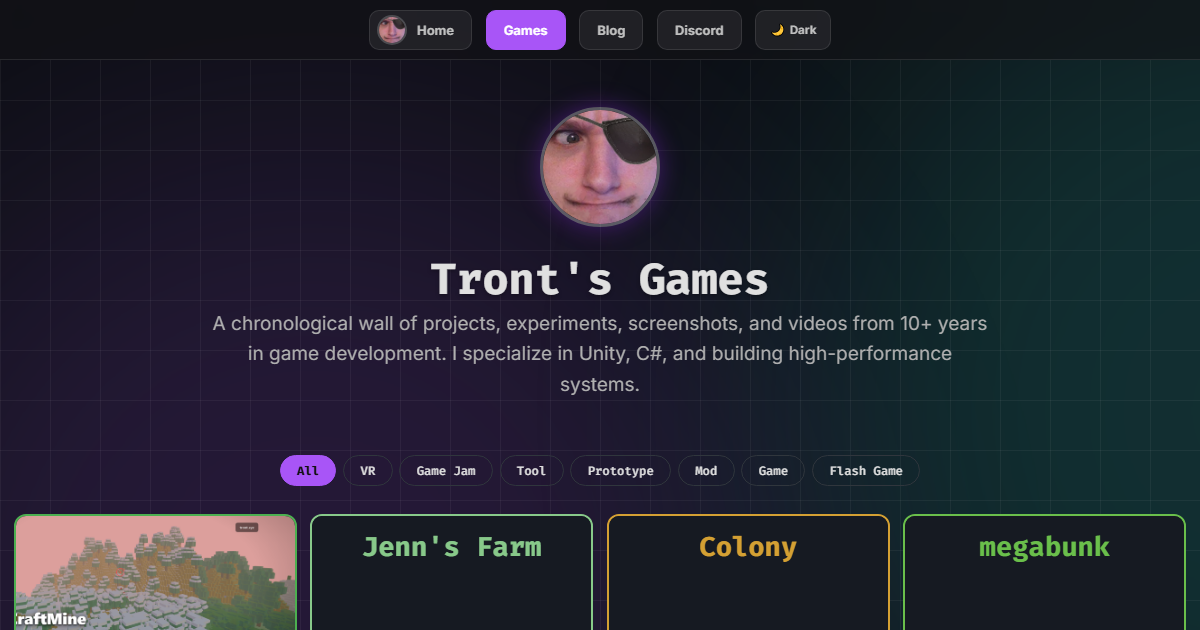
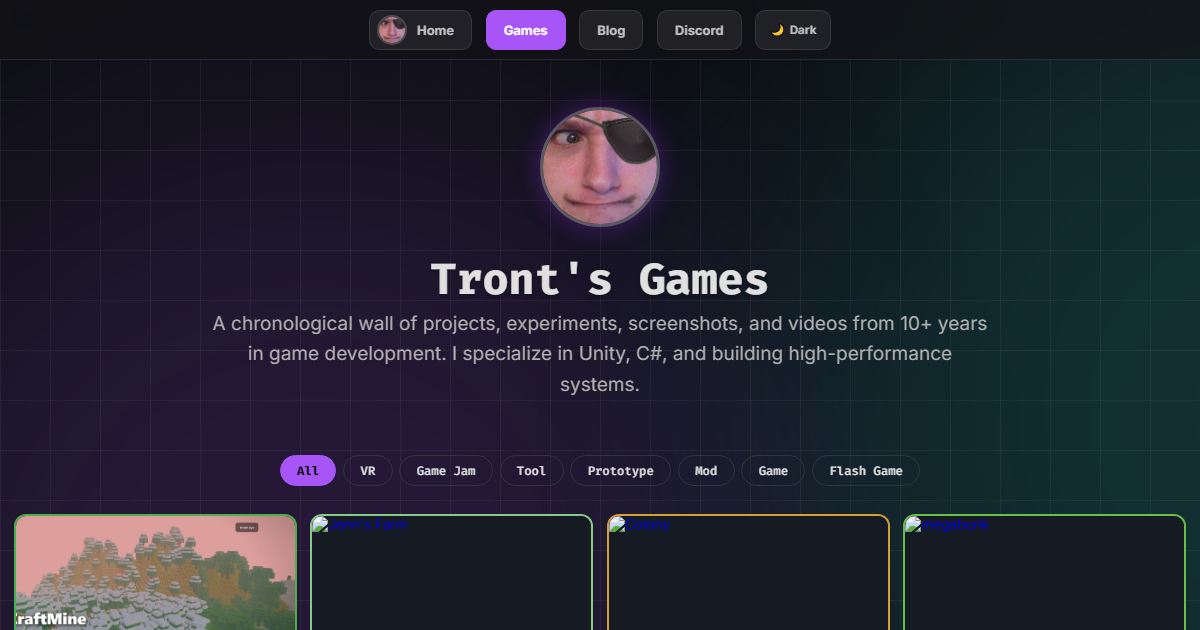
Replace 5 placeholder cards with actual screenshots on games page
- Added card images for Jenn's Farm, Colony, megabunk (from landing pages)
- Added Punchin' Duders screenshot from blog (HackerPunk VR)
- Added RigidbodyDuder screenshot from blog (LoopStuck physics)
- Regenerated games page OG image with updated cards

diff --git a/games/index.html b/games/index.html
@@ -126,9 +126,9 @@
 
         <main class="grid">
             <a href="/craftmine/" target="_blank" class="item tag-prototype" style="--highlight-color: #4CAF50;"><div class="image-container"><img class="bg-image" src="/img/craftmine.png" alt="CraftMine" loading="lazy"></div><div class="card-content"><h3 class="card-title">CraftMine <span>(2025)</span></h3><p class="blurb">AI-generated Minecraft clone with P2P multiplayer - 46 blocks, 36 mobs, 19 weapons. Runs in your browser.</p><div class="tags"><span class="tag">Prototype</span></div></div></a>
-            <a href="/jennsfarm/" class="item tag-game" style="--highlight-color: #88c98a;"><div class="image-container"><div class="placeholder-content">Jenn's Farm</div></div><div class="card-content"><h3 class="card-title">Jenn's Farm <span>(2026)</span></h3><p class="blurb">3D browser farming game with Animal Crossing world curvature. Procedural textures and audio, click-to-play farming, auto-save.</p><div class="tags"><span class="tag">Game</span></div></div></a>
-            <a href="/colony/" class="item tag-game" style="--highlight-color: #d4a033;"><div class="image-container"><div class="placeholder-content">Colony</div></div><div class="card-content"><h3 class="card-title">Colony <span>(2026)</span></h3><p class="blurb">Dwarf colony idle game - Craft the World meets Cookie Clicker. 6 resources, 7+ buildings, tech tree, offline progress.</p><div class="tags"><span class="tag">Game</span></div></div></a>
-            <a href="/megabunk/" class="item tag-prototype" style="--highlight-color: #6abf4b;"><div class="image-container"><div class="placeholder-content">megabunk</div></div><div class="card-content"><h3 class="card-title">megabunk <span>(2026)</span></h3><p class="blurb">Procedural terrain tech demo - a clone of MEGABONK's snake-walk world generation. Real-time tweaking, dynamic elevation.</p><div class="tags"><span class="tag">Prototype</span></div></div></a>
+            <a href="/jennsfarm/" class="item tag-game" style="--highlight-color: #88c98a;"><div class="image-container"><img class="bg-image" src="/img/jennsfarm.png" alt="Jenn's Farm" loading="lazy"></div><div class="card-content"><h3 class="card-title">Jenn's Farm <span>(2026)</span></h3><p class="blurb">3D browser farming game with Animal Crossing world curvature. Procedural textures and audio, click-to-play farming, auto-save.</p><div class="tags"><span class="tag">Game</span></div></div></a>
+            <a href="/colony/" class="item tag-game" style="--highlight-color: #d4a033;"><div class="image-container"><img class="bg-image" src="/img/colony.png" alt="Colony" loading="lazy"></div><div class="card-content"><h3 class="card-title">Colony <span>(2026)</span></h3><p class="blurb">Dwarf colony idle game - Craft the World meets Cookie Clicker. 6 resources, 7+ buildings, tech tree, offline progress.</p><div class="tags"><span class="tag">Game</span></div></div></a>
+            <a href="/megabunk/" class="item tag-prototype" style="--highlight-color: #6abf4b;"><div class="image-container"><img class="bg-image" src="/img/megabunk.png" alt="megabunk" loading="lazy"></div><div class="card-content"><h3 class="card-title">megabunk <span>(2026)</span></h3><p class="blurb">Procedural terrain tech demo - a clone of MEGABONK's snake-walk world generation. Real-time tweaking, dynamic elevation.</p><div class="tags"><span class="tag">Prototype</span></div></div></a>
             <a href="https://tront.xyz/SpaceView/" target="_blank" class="item tag-tool" style="--highlight-color: #4361ee;"><div class="image-container"><img class="bg-image" src="/img/spaceview.png" alt="SpaceView" loading="lazy"></div><div class="card-content"><h3 class="card-title">SpaceView <span>(2026)</span></h3><p class="blurb">A fast disk space visualizer inspired by SpaceMonger. Squarified treemaps, smooth camera, lazy LOD. Built with Rust + egui. 3.6 MB standalone .exe.</p><div class="tags"><span class="tag">Tool</span></div></div></a>
             <a href="https://github.com/TrentSterling/FishNet-EOS-Native" target="_blank" class="item tag-tool" style="--highlight-color: #2ee6d7;"><div class="image-container"><img class="bg-image" src="/img/fishnet_eos_native.png" alt="FishNet-EOS-Native" loading="lazy"></div><div class="card-content"><h3 class="card-title">FishNet-EOS-Native <span>(2026)</span></h3><p class="blurb">Standalone EOS transport for FishNet with zero PlayEveryWare dependency. Features host migration, voice chat, matchmaking, replay system, and 4-digit lobby codes.</p><div class="tags"><span class="tag">Tool</span></div></div></a>
             <a href="https://tront.xyz/speedslap/" target="_blank" class="item tag-tool" style="--highlight-color: #ff8b3d;"><div class="image-container"><img class="bg-image" src="/img/speedslap.png" alt="SpeedSlap" loading="lazy"></div><div class="card-content"><h3 class="card-title">SpeedSlap <span>(2026)</span></h3><p class="blurb">Chrome extension for advanced YouTube playback speed control. Configurable shortcuts, scroll wheel control, draggable overlay, and speed persistence.</p><div class="tags"><span class="tag">Tool</span></div></div></a>
@@ -163,11 +163,11 @@
             <a href="https://tront.xyz/splitter/" target="_blank" class="item tag-tool" style="--highlight-color: #F23F43;"><div class="image-container"><img class="bg-image" src="/img/splitter4gpt.png" alt="Splitter4GPT" loading="lazy"></div><div class="card-content"><h3 class="card-title">Splitter4GPT <span>(2024)</span></h3><p class="blurb">A web utility to intelligently split large text files into smaller, manageable chunks suitable for LLMs.</p><div class="tags"><span class="tag">Tool</span></div></div></a>
             <a href="https://monke.tront.xyz" target="_blank" class="item tag-game tag-vr" style="--highlight-color: #c874e8;"><div class="image-container"><img class="bg-image" src="/img/monkeportalsrender.jpg" alt="MonkePortals" loading="lazy"></div><div class="card-content"><h3 class="card-title">MonkePortals <span>(2023)</span></h3><p class="blurb">A Gorilla Tag-inspired VR game featuring dynamic portal mechanics for traversal and puzzle-solving.</p><div class="tags"><span class="tag">Game</span><span class="tag">VR</span></div></div></a>
             <a href="/blog/posts/farmvr/" target="_blank" class="item tag-game tag-vr" style="--highlight-color: #2ee6d7;"><div class="image-container"><img class="bg-image" src="/img/ScreenshotFarmVR.jpg" alt="FarmVR" loading="lazy"></div><div class="card-content"><h3 class="card-title">FarmVR <span>(2022)</span></h3><p class="blurb">A cross-platform VR farming simulator with a dynamic market system and real-time economy.</p><div class="tags"><span class="tag">Game</span><span class="tag">VR</span></div></div></a>
-            <a href="/blog/posts/punchin-duders-hackerpunk-vr/" target="_blank" class="item tag-game tag-vr" style="--highlight-color: #4ade80;"><div class="image-container"><div class="placeholder-content">Punchin' Duders</div></div><div class="card-content"><h3 class="card-title">Punchin' Duders <span>(2021)</span></h3><p class="blurb">A ragdoll punching VR game. Cause chaos in an office space, punching dudes and breaking stuff before the cops show up.</p><div class="tags"><span class="tag">Game</span><span class="tag">VR</span></div></div></a>
+            <a href="/blog/posts/punchin-duders-hackerpunk-vr/" target="_blank" class="item tag-game tag-vr" style="--highlight-color: #4ade80;"><div class="image-container"><img class="bg-image" src="/img/punchin_duders.png" alt="Punchin' Duders" loading="lazy"></div><div class="card-content"><h3 class="card-title">Punchin' Duders <span>(2021)</span></h3><p class="blurb">A ragdoll punching VR game. Cause chaos in an office space, punching dudes and breaking stuff before the cops show up.</p><div class="tags"><span class="tag">Game</span><span class="tag">VR</span></div></div></a>
             <a href="https://github.com/TrentSterling/punk" target="_blank" class="item tag-prototype tag-vr" style="--highlight-color: #58a6ff;"><div class="image-container"><img class="bg-image" src="/img/hackerpunk1.png" alt="HackerPunk VR" loading="lazy"></div><div class="card-content"><h3 class="card-title">HackerPunk VR <span>(2021)</span></h3><p class="blurb">Cyberpunk VR multiplayer shooter prototype focusing on fast-paced combat and environmental interaction.</p><div class="tags"><span class="tag">Prototype</span><span class="tag">VR</span></div></div></a>
             <a href="https://trent.itch.io/heist-and-jam-2020" target="_blank" class="item tag-game-jam" style="--highlight-color: #ff79c6;"><div class="image-container"><img class="bg-image" src="/img/heist_and_jam.gif" alt="Heist And Jam" loading="lazy"></div><div class="card-content"><h3 class="card-title">Heist And Jam <span>(2020)</span></h3><p class="blurb">A simulation game about planning the perfect heist, focusing on strategic decision-making and resource management.</p><div class="tags"><span class="tag">Game Jam</span></div></div></a>
             <a href="https://trent.itch.io/death-island" target="_blank" class="item tag-game" style="--highlight-color: #00dd00;"><div class="image-container"><img class="bg-image" src="/img/death_island.gif" alt="Death Island" loading="lazy"></div><div class="card-content"><h3 class="card-title">Death Island <span>(2020)</span></h3><p class="blurb">A zombie survival game set on a desolate island, emphasizing resource gathering and base building.</p><div class="tags"><span class="tag">Game</span></div></div></a>
-            <a href="/blog/posts/rigidbody-duder-loopstuck/" target="_blank" class="item tag-prototype" style="--highlight-color: #F0B232;"><div class="image-container"><div class="placeholder-content">RigidbodyDuder</div></div><div class="card-content"><h3 class="card-title">RigidbodyDuder <span>(2019)</span></h3><p class="blurb">Unity demo for a robust character controller implemented using Rigidbody physics for smooth movement.</p><div class="tags"><span class="tag">Prototype</span></div></div></a>
+            <a href="/blog/posts/rigidbody-duder-loopstuck/" target="_blank" class="item tag-prototype" style="--highlight-color: #F0B232;"><div class="image-container"><img class="bg-image" src="/img/rigidbody_duder.jpg" alt="RigidbodyDuder" loading="lazy"></div><div class="card-content"><h3 class="card-title">RigidbodyDuder <span>(2019)</span></h3><p class="blurb">Unity demo for a robust character controller implemented using Rigidbody physics for smooth movement.</p><div class="tags"><span class="tag">Prototype</span></div></div></a>
             <a href="https://trent.itch.io/loopstuck" target="_blank" class="item tag-game-jam" style="--highlight-color: #F23F43;"><div class="image-container"><img class="bg-image" src="/img/loopstuck.gif" alt="LoopStuck" loading="lazy"></div><div class="card-content"><h3 class="card-title">LoopStuck <span>(2019)</span></h3><p class="blurb">A 2D platformer jam entry based on a time loop mechanic, challenging players to manipulate repeated events.</p><div class="tags"><span class="tag">Game Jam</span></div></div></a>
             <a href="/blog/posts/roland-ai1/" target="_blank" class="item tag-game" style="--highlight-color: #ff8b3d;"><div class="image-container"><img class="bg-image" src="/img/roland_small.gif" alt="Roland" loading="lazy"></div><div class="card-content"><h3 class="card-title">Roland <span>(2018)</span></h3><p class="blurb">Cute 3D platformer starring an orange ball character navigating imaginative worlds and solving physics-based puzzles.</p><div class="tags"><span class="tag">Game</span></div></div></a>
             <a href="/blog/posts/roland-ai1/" target="_blank" class="item tag-prototype" style="--highlight-color: #c874e8;"><div class="image-container"><img class="bg-image" src="/img/ai1.png" alt="A.I.1" loading="lazy"></div><div class="card-content"><h3 class="card-title">A.I.1 <span>(2018)</span></h3><p class="blurb">Provided code support, refactoring, and optimization for combat systems in this scifi Metroidvania.</p><div class="tags"><span class="tag">Prototype</span></div></div></a>
